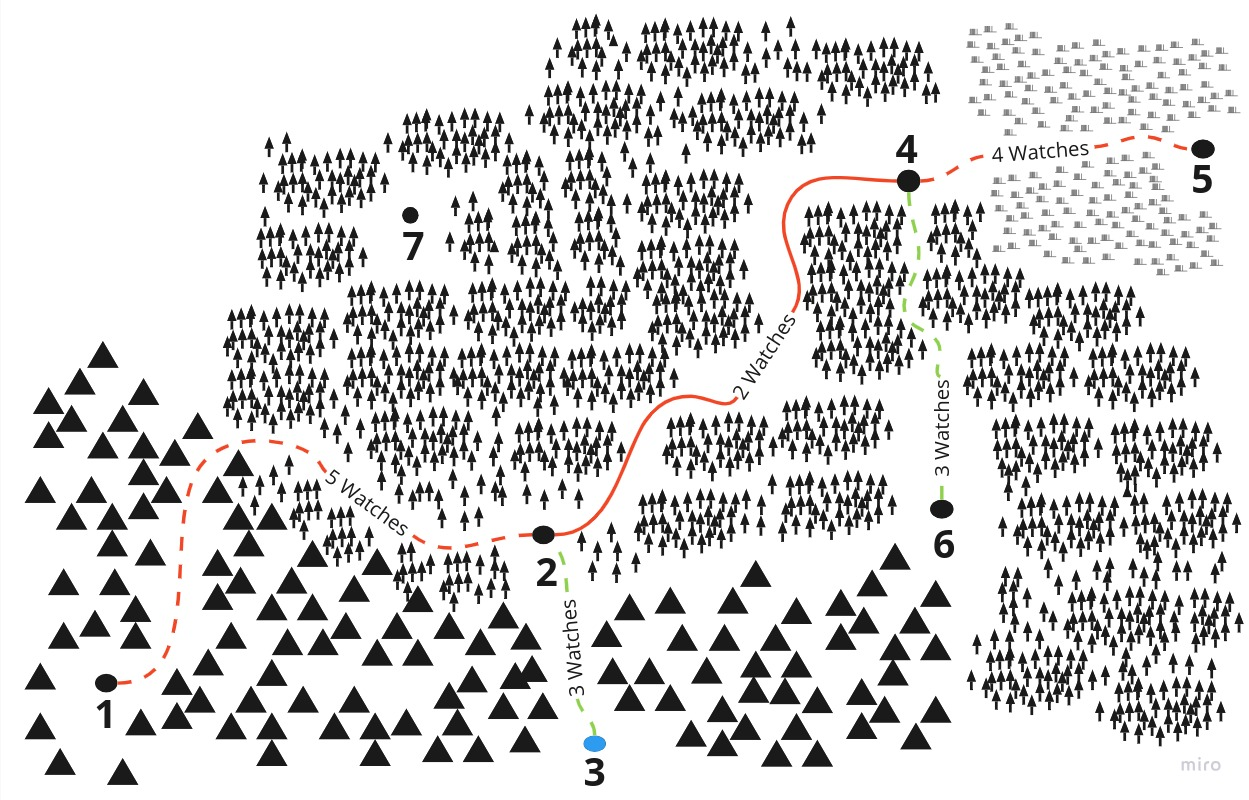
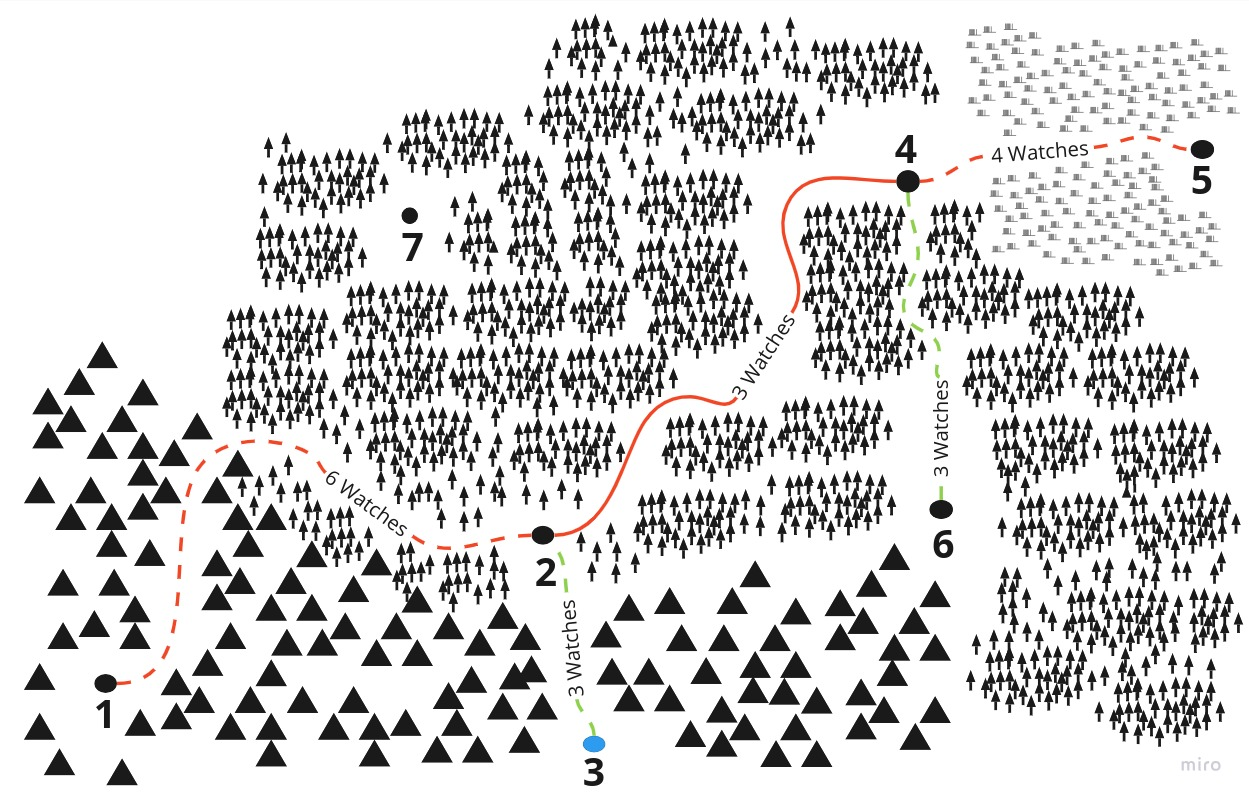
Really futzing with this thing now

diff --git a/wip/2e/deep-dives.md b/wip/2e/deep-dives.md
@@ -66,18 +66,23 @@ To determine the distance between two points, combine the penalties from both **
 [![Alt text](/img/2e/pointcrawl_example.jpg "Click to embiggen"){:height="60%" width="60%"}](/img/2e/pointcrawl_example.jpg)
 
 The travel times between each point were determined as follows (assuming that the party is travelling by foot):
-- The journey between points **1** to **2** takes 4 watches (two days):  
-  - Add one watch for the trail through the mountains and grasslands.
+- The journey between points **1** to **2** is 6 watches:  
+  - Add one watch for the trail through the mountains and forests.
+  - Add three watches for the _Perilous_ mountain terrain, and 2 watches for the forest.
+- The journey between **2** and **3** takes 3 watches:
+  - Add one watch for the trail through the mountains.
   - Add three watches for the _Perilous_ mountain terrain.
-- The journey between **2** and **4** takes two watches:
+- The journey between **2** and **4** takes three watches:
   - No penalty for traveling on a maintained road.
   - Add two watches for the _Tough_ forest terrain.
-- The journey between **4** and **6** takes one watch: 
-  - No penalty for traveling on a maintained road.
-  - Add one watch for the _Easy_ countryside terrain.
-- The journey between **4** and **5** takes 3 watches:
+  - Add one additional watch for the _extra long_ forest journey.
+- The journey between **4** and **5** takes four watches: 
+  - Add one watch for the trail through the swamp.
+  - Add one watch for the _Perilous_ swamp terrain.
+- The journey between **4** and **6** takes 3 watches:
   - Add one watch for the trail through the woods.
   - Add two watches for the _Tough_ forest terrain.
-- The journey to **3** from the nearest adjacent points:
-  -  +2 for traveling over raw terrain
+- The journey to **7** from anywhere should consider:
+  -  +2 for traveling through the wilderness
   -  +2 for traveling through the _Tough_ forest terrain.
+  -  +1 watch for the extensive forest (longer journey)
